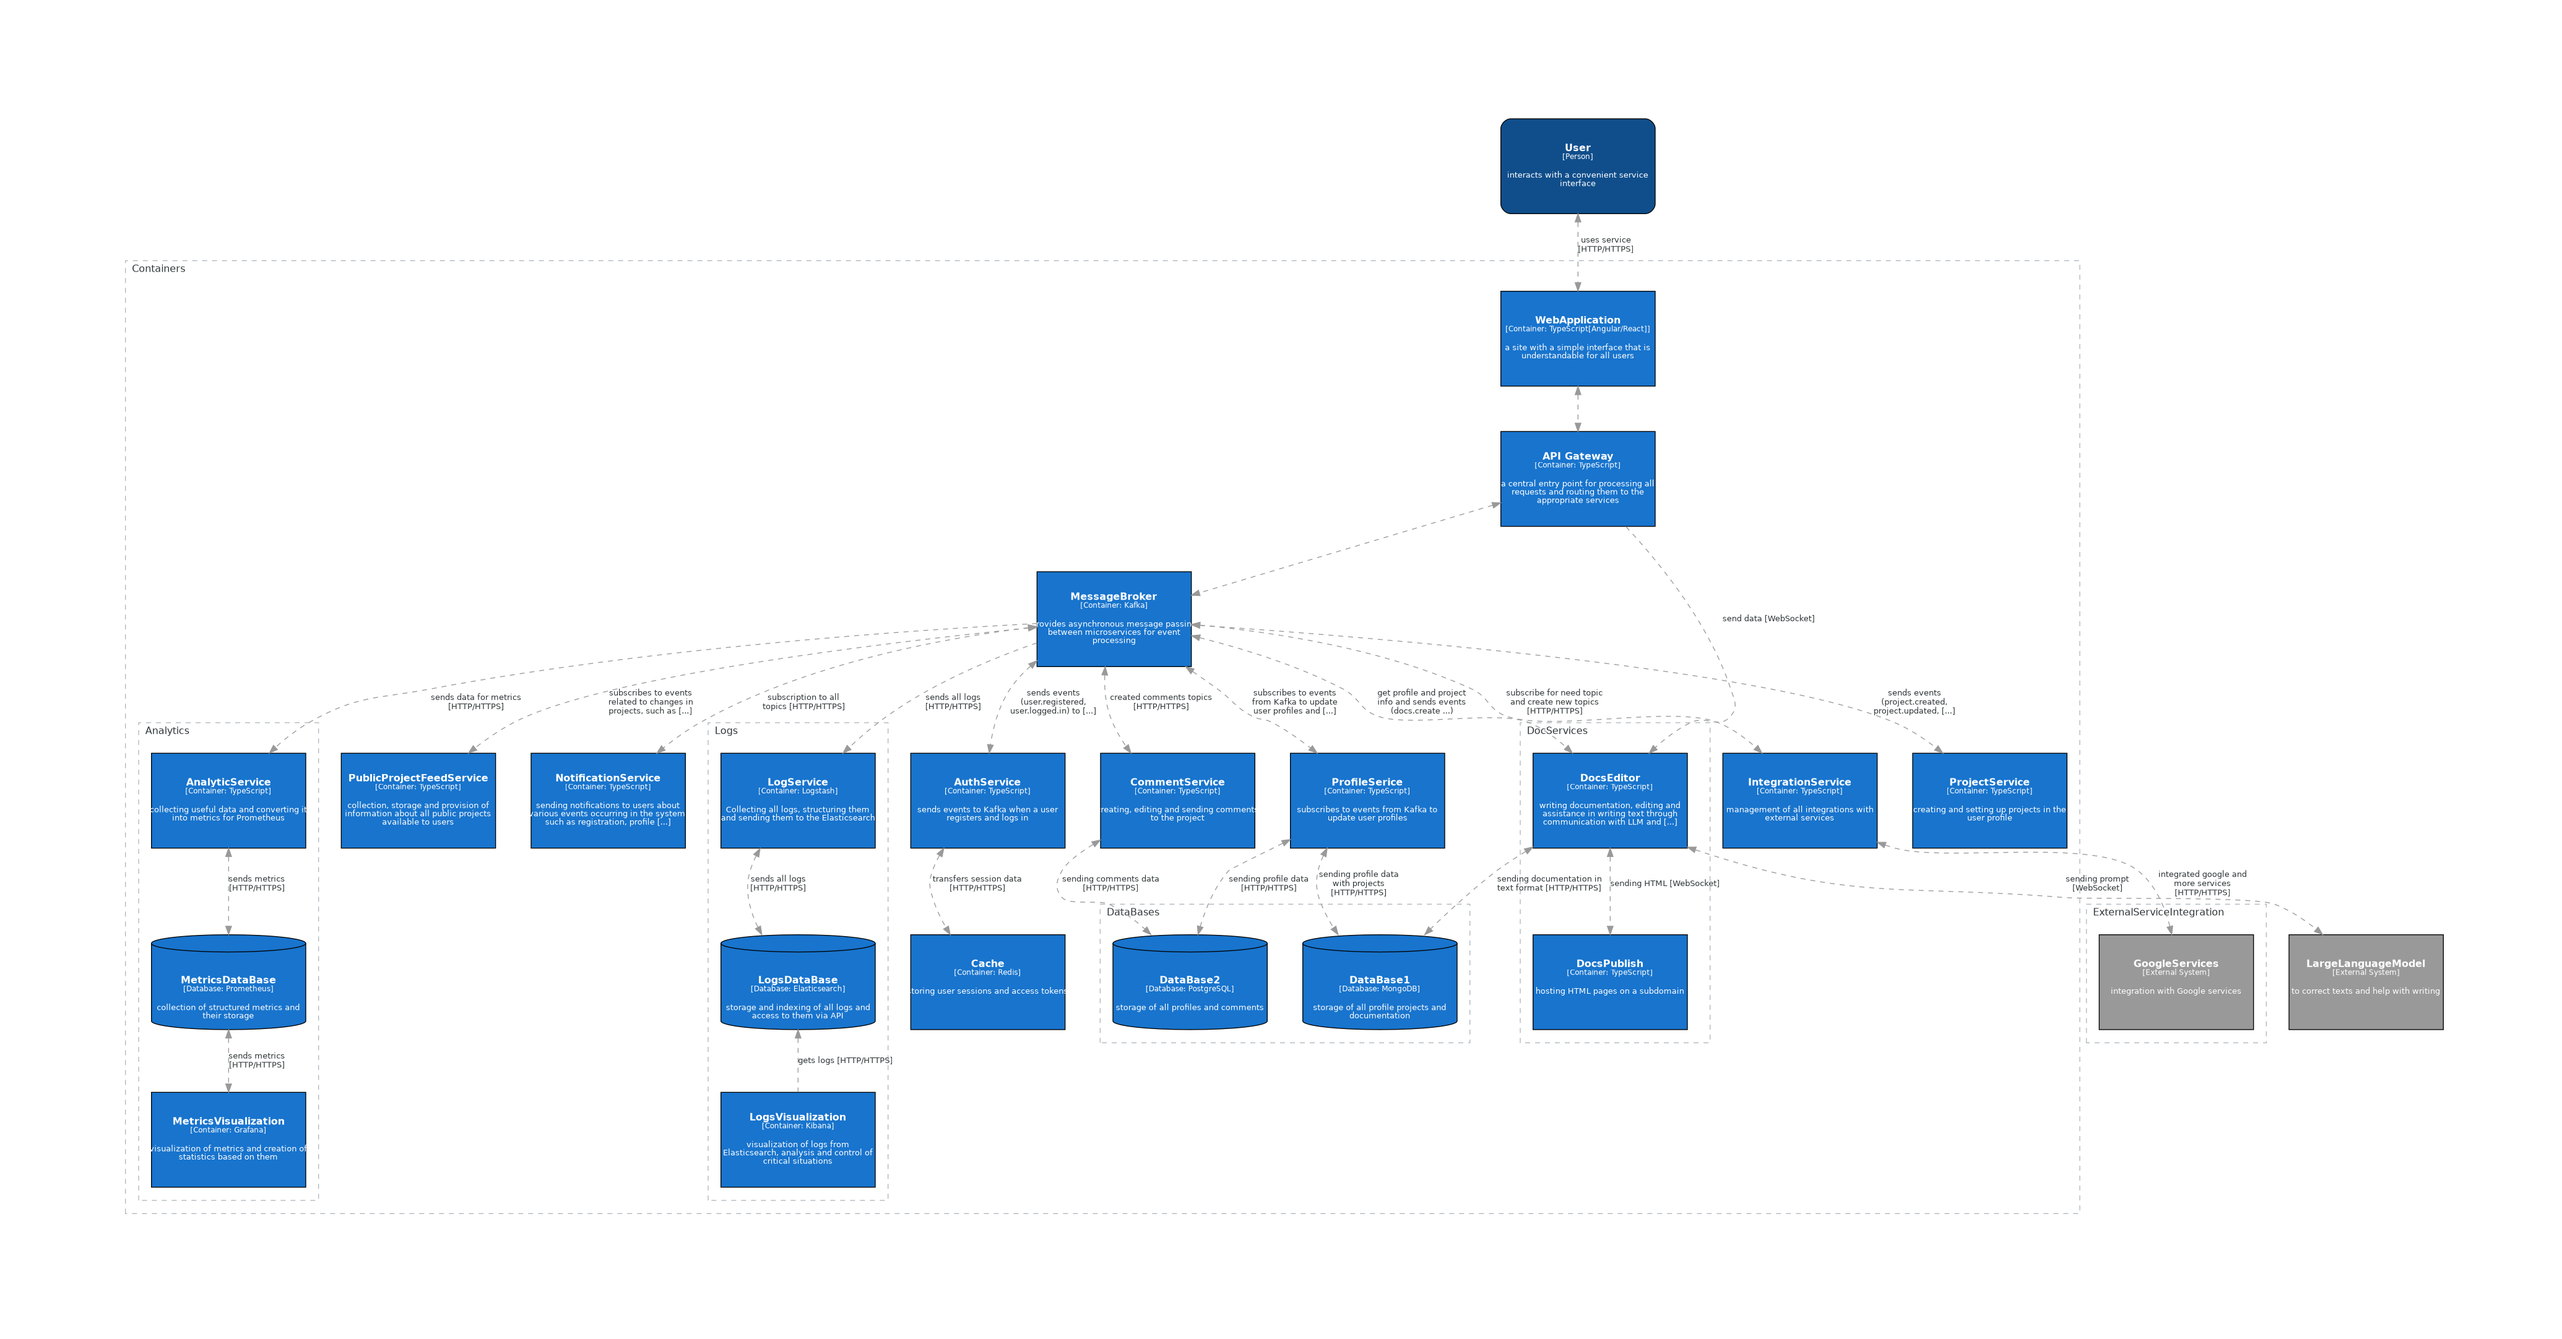
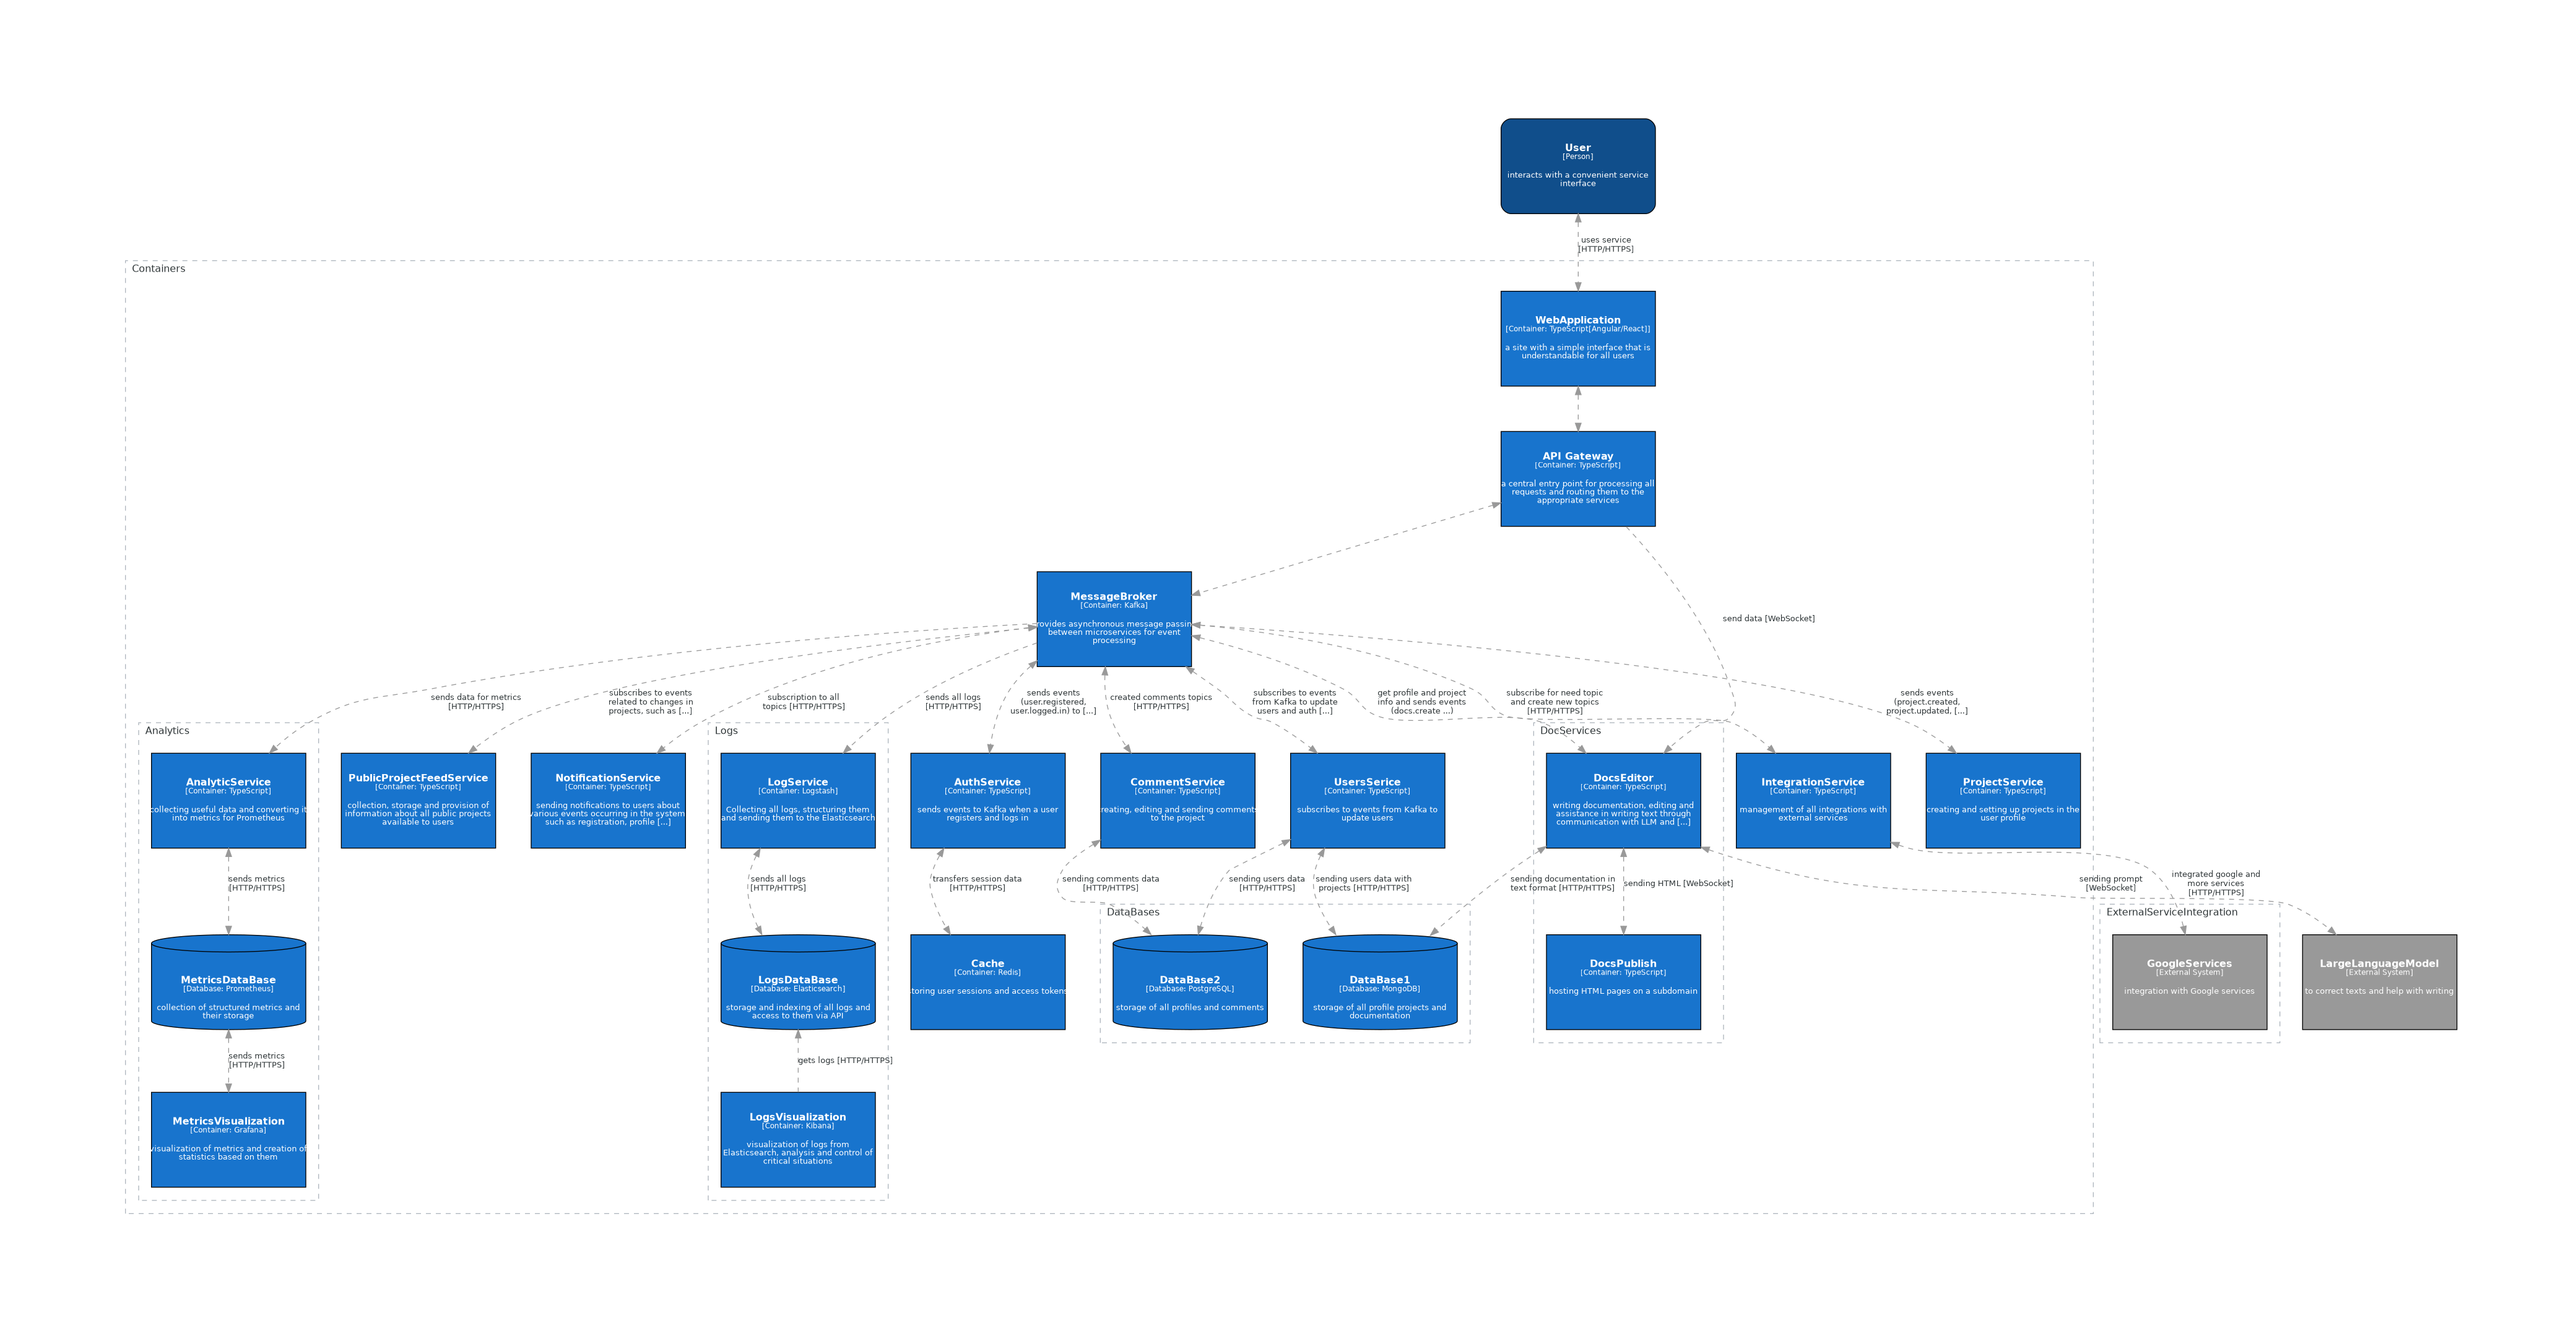
refactor: architecture update (#14)
* refactor: rename ProfileService to UsersService

* Update diagrams

* skip commit

* feat: update diagram workflow

* feat: add mvp diagram

* Update diagrams

---------

diff --git a/architecture/architecture/mvp-diagram.py b/architecture/architecture/mvp-diagram.py
@@ -1,0 +1,93 @@
+from diagrams import Diagram
+from diagrams.c4 import (
+	Person,
+    Container,
+    Relationship,
+    SystemBoundary,
+    Database,
+)
+
+
+PathSaveFile = 'diagrams/mvp-diagram'
+GraphAttr = {
+	'splines': 'spline',
+}
+
+
+with Diagram(filename=PathSaveFile, show=False, direction='TB', graph_attr=GraphAttr):
+	User = Person(
+		name='User',
+		description='interacts with a convenient service interface',
+	)
+
+	with SystemBoundary('Containers'):
+		WebApplication = Container(
+			name='Web Application',
+			description='a site with a simple interface that is understandable for all users',
+			technology='TypeScript[Angular]',
+		)
+		
+		APIGateway = Container(
+			name='API Gateway',
+			description='a central entry point for processing all requests and routing them to the appropriate services',
+			technology='TypeScript[Nest.js]',
+		)
+
+		MessageBroker = Container(
+			name='Message Broker',
+			description='provides asynchronous message passing between microservices for event processing',
+			technology='Kafka',
+		)
+
+		UsersService = Container(
+			name='Users Serice',
+			description='subscribes to events from Kafka to update users',
+			technology='TypeScript[Nest.js]',
+		)
+
+		ProjectsService = Container(
+			name='Projects Service',
+			description='creating and setting up projects in the user profile',
+			technology='TypeScript[Nest.js]',
+		)
+
+		DocsEditor = Container(
+			name='Docs Editor',
+			description='writing documentation, editing and assistance in writing text through communication with LLM and converting text to HTML',
+			technology='TypeScript[Nest.js]',
+		)
+
+		with SystemBoundary('DataBases'):
+			Database1 = Database(
+				name='Database1',
+				description='storage of all profile projects and documentation',
+				technology='MongoDB',
+			)
+
+			Database2 = Database(
+				name='Database2',
+				description='storage of all profiles and comments',
+				technology='PostgreSQL',
+			)
+
+	### User ###
+	User >> Relationship('uses service [HTTP/HTTPS]') << WebApplication
+
+	### WebApplication ###
+	WebApplication >> Relationship('') << APIGateway
+
+	### APIGateway ###
+	APIGateway >> Relationship('') << MessageBroker
+	APIGateway >> Relationship('send data [WebSocket]') >> DocsEditor
+
+	### MessageBroker ###
+	MessageBroker >> Relationship('sends events (project.created, project.updated, project.deleted) to Kafka [HTTP/HTTPS]') << ProjectsService
+	MessageBroker >> Relationship('subscribes to events from Kafka to update users and auth topics [HTTP/HTTPS]') << UsersService
+	MessageBroker >> Relationship('get profile and project info and sends events (docs.create ...)') << DocsEditor
+
+	### DocService ###
+	DocsEditor >> Relationship('sending documentation in text format [HTTP/HTTPS]') << Database1
+
+	### UsersService ###
+	UsersService >> Relationship('sending users data with projects [HTTP/HTTPS]') << Database1
+	UsersService >> Relationship('sending users data [HTTP/HTTPS]') << Database2

diff --git a/architecture/architecture/containers-diagram.py b/architecture/architecture/containers-diagram.py
@@ -65,9 +65,9 @@ with Diagram(filename=PathSaveFile, show=False, direction='TB', graph_attr=Graph
 			technology='TypeScript',
 		)
 
-		ProfileService = Container(
-			name='ProfileSerice',
-			description='subscribes to events from Kafka to update user profiles',
+		UsersService = Container(
+			name='UsersSerice',
+			description='subscribes to events from Kafka to update users',
 			technology='TypeScript',
 		)
 
@@ -180,7 +180,7 @@ with Diagram(filename=PathSaveFile, show=False, direction='TB', graph_attr=Graph
 	MessageBroker >> Relationship('sends all logs [HTTP/HTTPS]') >> LogService
 	MessageBroker >> Relationship('sends events (user.registered, user.logged.in) to Kafka [HTTP/HTTPS]') << AuthService
 	MessageBroker >> Relationship('sends events (project.created, project.updated, project.deleted) to Kafka [HTTP/HTTPS]') << ProjectService
-	MessageBroker >> Relationship('subscribes to events from Kafka to update user profiles and auth topics [HTTP/HTTPS]') << ProfileService
+	MessageBroker >> Relationship('subscribes to events from Kafka to update users and auth topics [HTTP/HTTPS]') << UsersService
 	MessageBroker >> Relationship('subscribes to events related to changes in projects, such as project.created, project.updated, project.deleted [HTTP/HTTPS]') << PublicProjectFeedService
 	MessageBroker >> Relationship('subscription to all topics [HTTP/HTTPS]') << NotificationService
 	MessageBroker >> Relationship('get profile and project info and sends events (docs.create ...)') << DocsEditor
@@ -203,9 +203,9 @@ with Diagram(filename=PathSaveFile, show=False, direction='TB', graph_attr=Graph
 	### AuthService ###
 	AuthService >> Relationship('transfers session data [HTTP/HTTPS]') << Cache
 
-	### ProfileService ###
-	ProfileService >> Relationship('sending profile data with projects [HTTP/HTTPS]') << DataBase1
-	ProfileService >> Relationship('sending profile data [HTTP/HTTPS]') << DataBase2
+	### UsersService ###
+	UsersService >> Relationship('sending users data with projects [HTTP/HTTPS]') << DataBase1
+	UsersService >> Relationship('sending users data [HTTP/HTTPS]') << DataBase2
 
 	### CommentService ###
 	CommentService >> Relationship('sending comments data [HTTP/HTTPS]') << DataBase2

diff --git a/architecture/architecture/messagebroker-relationships-diagram.py b/architecture/architecture/messagebroker-relationships-diagram.py
@@ -32,9 +32,9 @@ with Diagram(filename=PathSaveFile, show=False, direction='TB', graph_attr=Graph
 			technology='TypeScript',
 		)
 
-		ProfileService = Container(
-			name='ProfileSerice',
-			description='subscribes to events from Kafka to update user profiles',
+		UsersService = Container(
+			name='UsersSerice',
+			description='subscribes to events from Kafka to update users',
 			technology='TypeScript',
 		)
 
@@ -95,7 +95,7 @@ with Diagram(filename=PathSaveFile, show=False, direction='TB', graph_attr=Graph
 	MessageBroker >> Relationship('sends all logs [HTTP/HTTPS]') >> LogService
 	MessageBroker >> Relationship('sends events (user.registered, user.logged.in) to Kafka [HTTP/HTTPS]') << AuthService
 	MessageBroker >> Relationship('sends events (project.created, project.updated, project.deleted) to Kafka [HTTP/HTTPS]') << ProjectService
-	MessageBroker >> Relationship('subscribes to events from Kafka to update user profiles and auth topics [HTTP/HTTPS]') << ProfileService
+	MessageBroker >> Relationship('subscribes to events from Kafka to update users and auth topics [HTTP/HTTPS]') << UsersService
 	MessageBroker >> Relationship('subscribes to events related to changes in projects, such as project.created, project.updated, project.deleted [HTTP/HTTPS]') << PublicProjectFeedService
 	MessageBroker >> Relationship('subscription to all topics [HTTP/HTTPS]') << NotificationService
 	MessageBroker >> Relationship('get profile and project info and sends events (docs.create ...)') << DocsEditor

diff --git a/architecture/architecture/docs-editor-relationships-diagram.py b/architecture/architecture/docs-editor-relationships-diagram.py
@@ -34,9 +34,9 @@ with Diagram(filename=PathSaveFile, show=False, direction='TB', graph_attr=Graph
 			technology='Kafka',
 		)
 
-		ProfileService = Container(
-			name='ProfileSerice',
-			description='subscribes to events from Kafka to update user profiles',
+		UsersService = Container(
+			name='UsersSerice',
+			description='subscribes to events from Kafka to update users',
 			technology='TypeScript',
 		)
 
@@ -73,7 +73,7 @@ with Diagram(filename=PathSaveFile, show=False, direction='TB', graph_attr=Graph
 
 	### MessageBroker ###
 	MessageBroker >> Relationship('sends events (project.created, project.updated, project.deleted) to Kafka [HTTP/HTTPS]') << ProjectService
-	MessageBroker >> Relationship('subscribes to events from Kafka to update user profiles and auth topics [HTTP/HTTPS]') << ProfileService
+	MessageBroker >> Relationship('subscribes to events from Kafka to update users and auth topics [HTTP/HTTPS]') << UsersService
 	MessageBroker >> Relationship('get profile and project info and sends events (docs.create ...)') << DocsEditor
 
 	### DocService ###
